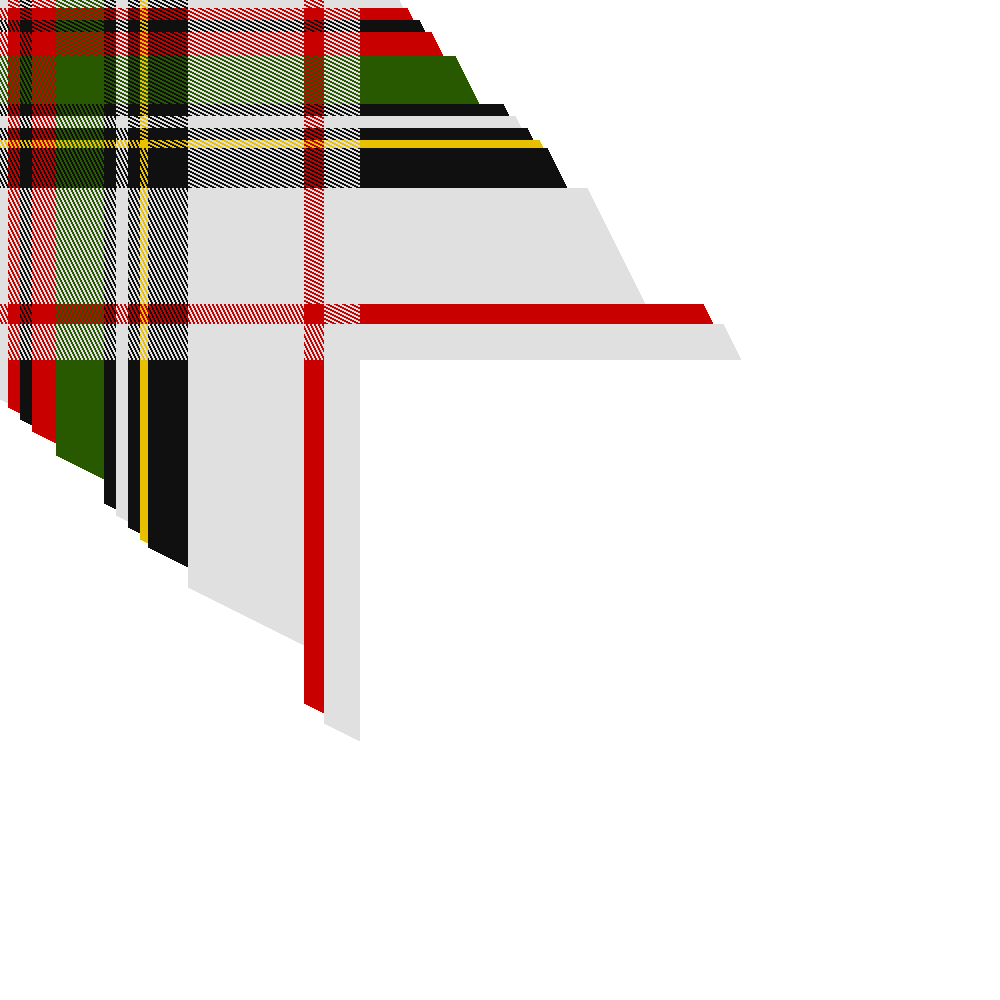
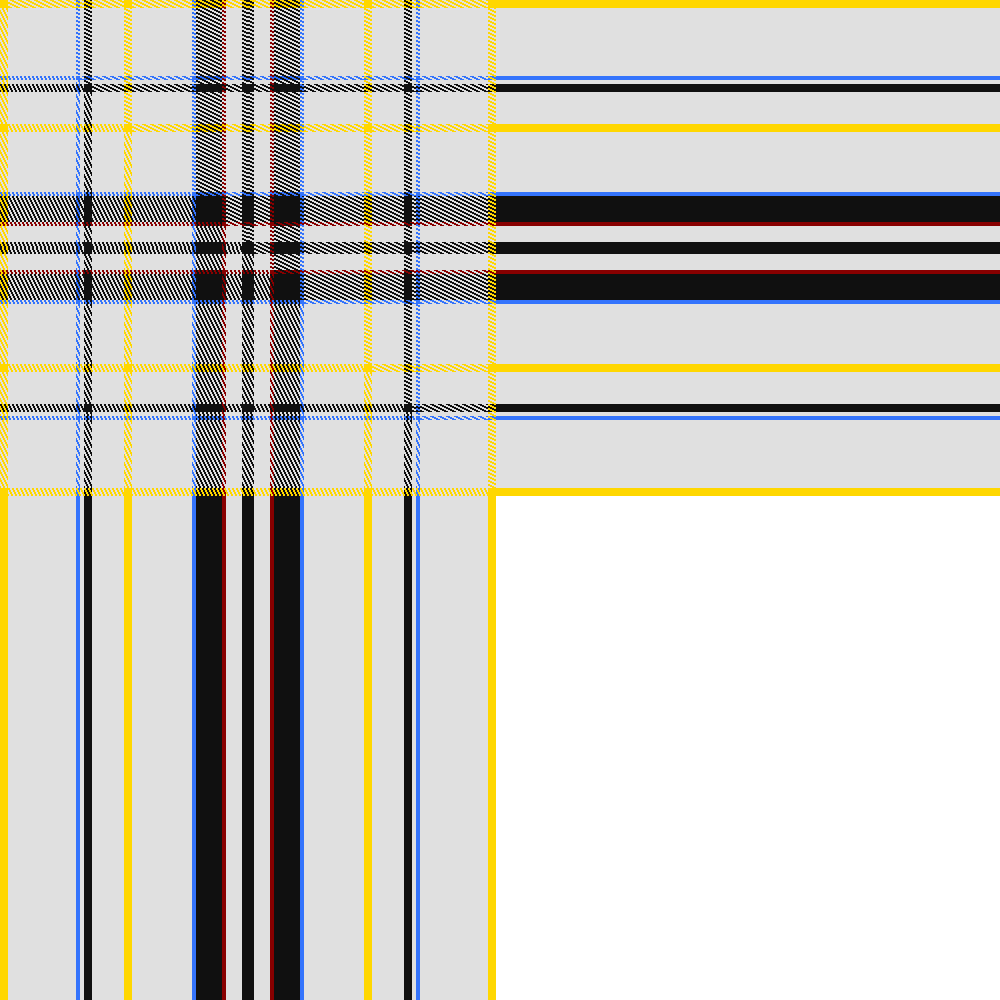
makoni tartan

diff --git a/tartan/tartan.py b/tartan/tartan.py
@@ -1,15 +1,26 @@
 import PIL.Image as I
 
+#  K=#101010#;W=#E0E0E0#;Y=#FFD700#;B=#3474FC#;DR=#880000#
+#  DR/2W8K3Y4W34B2W2K4W16Y4W30B2K13
+filename = 'makoni.txt'
+
+with open(filename) as f:
+    lines = f.readlines()
+    count = 0
+    for i in lines:
+        numbers = i.split()[1]
+        count += int(numbers)
+
 unit_length = 2
 canvas_size = 1000
 canvas = I.new('RGB', (canvas_size, canvas_size), 'white')
-
-pallet = {'HG':'#285800','K':'#101010','R':'#C80000','W':'#E0E0E0','Y':'#E8C000'}
-
+pallet = {'HG':'#285800','K':'#101010','R':'#C80000','W':'#E0E0E0','Y':'#E8C000', 'LN':'#C0C0C0','TK':'#8C7038','RB':'#0C585C','DR':'#880000','GO':'#FFD700','MB':'#3474FC'}
 offset = 0
-filename = 'testfile.txt'
+
 with open(filename) as f:
-    for i in f.readlines():
+    halfsett = f.readlines()
+    sett = halfsett + halfsett[::-1]
+    for i in sett:
         pixel_data = [j for j in i.split()]
         pixel_colour, pixel_size = pallet[pixel_data[0]], int(pixel_data[1])
         pixel = I.new('RGB', (unit_length * pixel_size, unit_length * pixel_size), pixel_colour)
@@ -19,7 +30,7 @@ with open(filename) as f:
         for j in range(pixel_size):
             x_offset_diverge = offset
             y_offset_diverge = offset
-            for i in range(200):
+            for i in range(700):
                 canvas.paste( m_pixel, (x_offset_diverge + j, offset2 ) )
                 canvas.paste( m_pixel, (offset2,y_offset_diverge + j) )
                 y_offset_diverge += unit_length #2*(( (-1)**j) +1 ) * unit_length  #  was 2*
@@ -30,7 +41,7 @@ with open(filename) as f:
         for j in range(pixel_size):
             x_offset_diverge = offset
             y_offset_diverge = offset
-            for i in range(100):
+            for i in range(700):
                 canvas.paste( m_pixel, (x_offset_diverge + j, offset2 ) )
                 canvas.paste( m_pixel, (offset2,y_offset_diverge + j) )
                 y_offset_diverge +=  -2 * unit_length #2*(( (-1)**j) +1 ) * unit_length  #  was 2*
